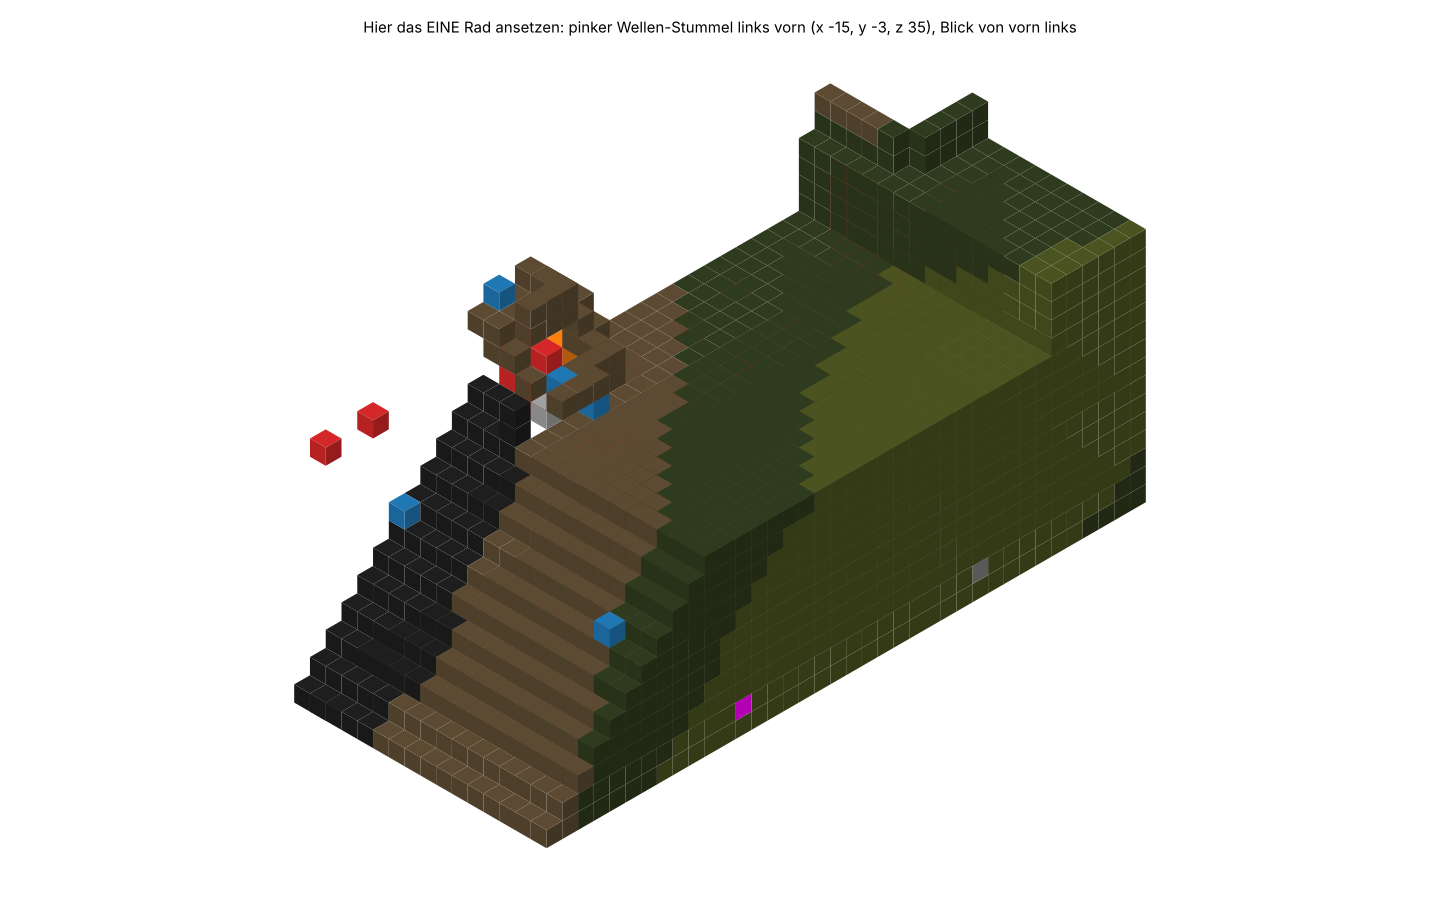
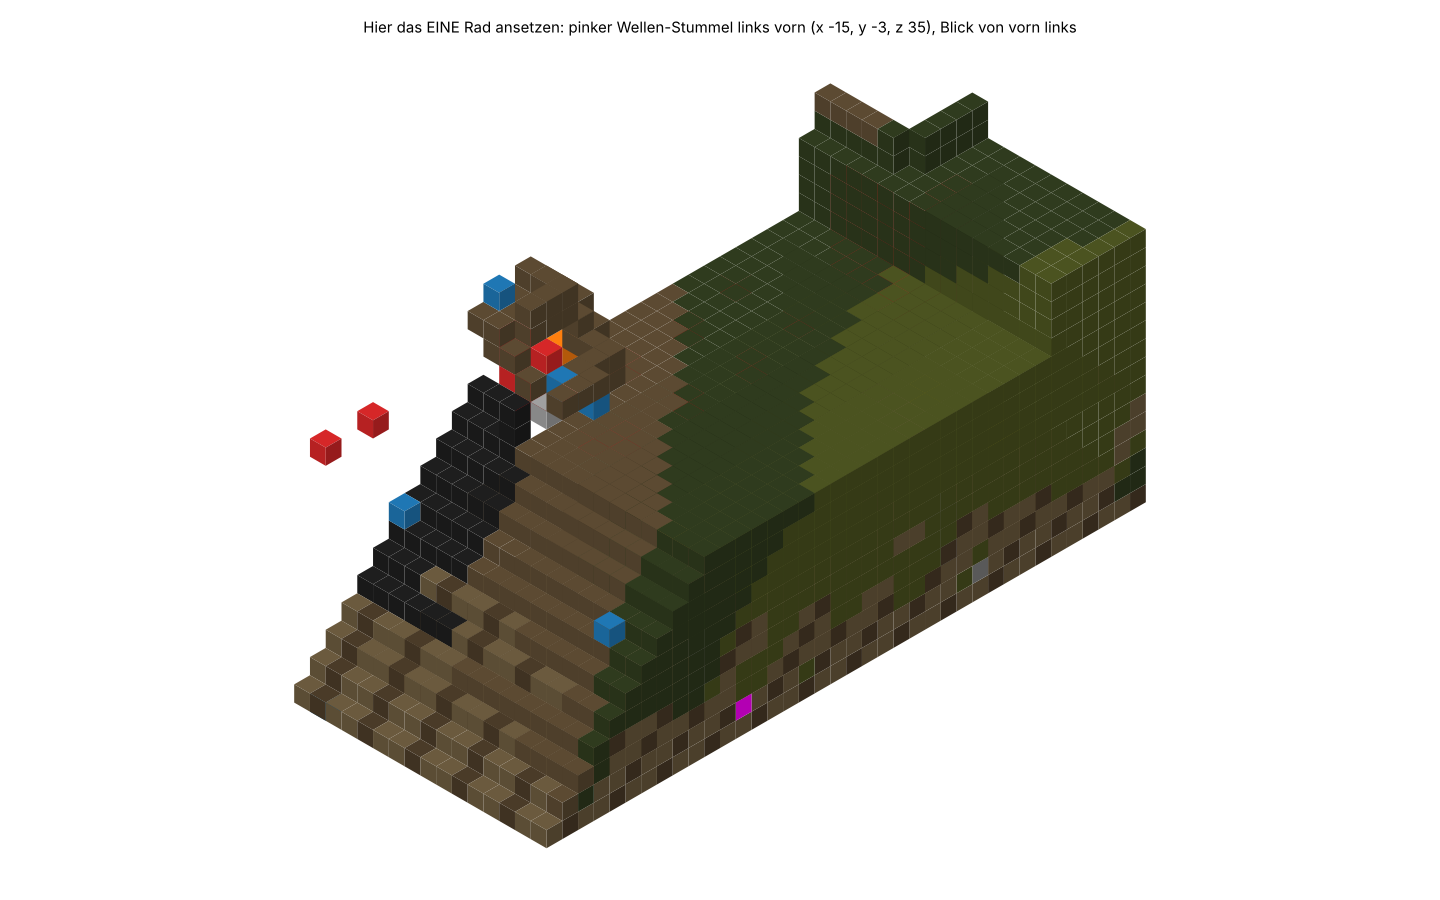
Landkreuzer: Bilder nicht mehr gespiegelt, Schlamm-Spritzer, Hinweise Licht/Schwerpunkt
Die Ansichten von rechts waren spiegelverkehrt (Linkssystem des Spiels). ansicht.py ohne
Argumente zeichnet jetzt alle Bilder neu. Unten am Rumpf fleckiger Schlamm.

Claude-Session: https://claude.ai/code/session_0152gkBg9gGuHk7BmVYYkeuS

Changed region(s): [[0.1875, 0.6222, 0.3438, 0.84], [0.4062, 0.7778, 0.5, 0.9333], [0.75, 0.56, 0.7812, 0.5911]]

diff --git a/landkreuzer/tools/ansicht.py b/landkreuzer/tools/ansicht.py
@@ -1,7 +1,8 @@
 """Zeichnet ein Stormworks-Fahrzeug von oben, von der Seite und von vorn (PNG), zum Ansehen ohne Spiel.
 
-Aufruf (mit matplotlib): python landkreuzer/tools/ansicht.py [Fahrzeug.xml] [Ausgabe.png]
-Standard: landkreuzer/fahrzeug/KI Landkreuzer.xml -> landkreuzer/bilder/ansicht.png
+Aufruf (mit matplotlib): python landkreuzer/tools/ansicht.py              alle Bilder in landkreuzer/bilder neu
+                         python landkreuzer/tools/ansicht.py Fahrzeug.xml [Ausgabe.png]   nur die drei Ansichten
+Blickrichtungen wie im Spiel (nicht gespiegelt): die Kennung KL-1 ist auf beiden Seiten von aussen lesbar.
 Jedes Teil ist ein Kaestchen an seiner Position (0,25 m); Bloecke in ihrer Farbe, Bauteile nach Art eingefaerbt.
 """
 import os
@@ -41,18 +42,22 @@ def zeichnen(pfad, aus):
     F = fz.Fahrzeug.lesen(pfad)
     teile = [t for _, ts in F.koerper for t in ts]
     fig, ax = plt.subplots(3, 1, figsize=(14, 15), gridspec_kw={"height_ratios": [1.1, 1, 0.9]})
-    for a, (i, j, titel) in zip(ax, ((2, 0, "von oben (vorn rechts)"), (2, 1, "von links (vorn rechts)"),
-                                     (0, 1, "von vorn"))):
+    # Blickrichtungen wie im Spiel (x rechts, y oben, z vorn; Linkssystem): von oben mit Bug rechts liegt die linke
+    # Seite oben, von rechts mit Bug rechts, von vorn liegt die rechte Seite links im Bild
+    sichten = (("von oben (Bug rechts, linke Seite oben)", lambda v: (v[2], -v[0]), lambda t: t.vp[1], "z (vorn)", "-x (links)"),
+               ("von rechts (Bug rechts)", lambda v: (v[2], v[1]), lambda t: t.vp[0], "z (vorn)", "y (oben)"),
+               ("von vorn (rechte Seite links im Bild)", lambda v: (-v[0], v[1]), lambda t: t.vp[2], "-x (links)",
+                "y (oben)"))
+    for a, (titel, proj, tiefe, xl, yl) in zip(ax, sichten):
+        a.set_xlabel(xl)
+        a.set_ylabel(yl)
         # nach Tiefe sortieren, damit das Naeherliegende oben liegt
-        k = ({0: 1, 1: 0, 2: 1}[i] if titel != "von vorn" else 2)
-        tiefe = (lambda t: t.vp[1]) if titel.startswith("von oben") else (
-            (lambda t: -t.vp[0]) if titel.startswith("von links") else (lambda t: t.vp[2]))
         ts = sorted(teile, key=tiefe)
-        a.scatter([t.vp[i] for t in ts], [t.vp[j] for t in ts], c=[farbe(t) for t in ts], marker="s", s=16, linewidths=0)
+        pts = [proj(t.vp) for t in ts]
+        a.scatter([q[0] for q in pts], [q[1] for q in pts], c=[farbe(t) for t in ts], marker="s", s=16, linewidths=0)
         a.set_aspect("equal")
         a.set_title(titel)
         a.grid(alpha=.2)
-        _ = k
     ax[0].legend(handles=[Patch(color=f, label=l) for _, f, l in ARTEN], loc="upper left", fontsize=8, ncol=4)
     fig.suptitle("%s - %d Teile, %d Koerper, %d Kabel (1 Kaestchen = 0,25 m)" % (
         os.path.basename(pfad), len(teile), len(F.koerper), len(F.kabel)))
@@ -60,12 +65,6 @@ def zeichnen(pfad, aus):
     os.makedirs(os.path.dirname(aus), exist_ok=True)
     fig.savefig(aus, dpi=80)
     print("gezeichnet:", aus)
-
-
-if __name__ == "__main__":
-    pf = sys.argv[1] if len(sys.argv) > 1 else os.path.join(LK, "fahrzeug", "KI Landkreuzer.xml")
-    au = sys.argv[2] if len(sys.argv) > 2 else os.path.join(LK, "bilder", "ansicht.png")
-    zeichnen(pf, au)
 
 
 def schraeg(pfad, aus, rechts=True, markiert=(), titel=None, ausschnitt=None):
@@ -82,8 +81,9 @@ def schraeg(pfad, aus, rechts=True, markiert=(), titel=None, ausschnitt=None):
     cx, cz = 0.866, 0.5
 
     def p(x, y, z):
-        # Blick aus Richtung (+x, +y, +z): naeher = groesseres x+z -> weiter unten
-        return ((sx * x - z) * cx, y - (sx * x + z) * cz)
+        # Blick aus Richtung (sx, +1, +1), wie eine Kamera im Spiel (Linkssystem: x rechts, y oben, z vorn).
+        # Von vorn rechts liegt der Bug rechts im Bild, von vorn links links. Naeher = groesseres sx*x+z -> weiter unten
+        return ((sx * z - x) * cx, y - (sx * x + z) * cz)
     belegt = {t.vp for t in teile}
     polys, farben = [], []
     if ausschnitt:
@@ -118,3 +118,30 @@ def schraeg(pfad, aus, rechts=True, markiert=(), titel=None, ausschnitt=None):
     fig.tight_layout()
     fig.savefig(aus, dpi=90)
     print("gezeichnet:", aus)
+
+
+def alle_bilder():
+    """Alle Bilder in landkreuzer/bilder neu zeichnen (nach bau_landkreuzer.py und bau_landkreuzer.py --lenkung)."""
+    sys.path.insert(0, HIER)
+    import bau_landkreuzer as B
+    fzg = os.path.join(LK, "fahrzeug")
+    bi = os.path.join(LK, "bilder")
+    einfach, lenk = os.path.join(fzg, "KI Landkreuzer.xml"), os.path.join(fzg, "KI Landkreuzer Lenkung.xml")
+    zeichnen(einfach, os.path.join(bi, "ansicht.png"))
+    schraeg(einfach, os.path.join(bi, "schraeg.png"))
+    schraeg(einfach, os.path.join(bi, "schraeg_links.png"), rechts=False)
+    if os.path.exists(lenk):
+        schraeg(lenk, os.path.join(bi, "schraeg_lenkung.png"),
+                titel="KI Landkreuzer Lenkung - vordere und hintere Achsen auf Gelenken (Raeder setzt Andre)")
+    schraeg(einfach, os.path.join(bi, "rad_stummel.png"), rechts=False, markiert={(-B.X1, B.ACHSE_Y, B.RAD_Z[0])},
+            ausschnitt=((-16, -5, 10), (0, 12, 48)),
+            titel="Hier das EINE Rad ansetzen: pinker Wellen-Stummel links vorn (x -15, y -3, z 35), Blick von vorn links")
+
+
+if __name__ == "__main__":
+    if len(sys.argv) > 1:
+        pf = sys.argv[1]
+        au = sys.argv[2] if len(sys.argv) > 2 else os.path.join(LK, "bilder", "ansicht.png")
+        zeichnen(pf, au)
+    else:
+        alle_bilder()

diff --git a/landkreuzer/tools/bau_landkreuzer.py b/landkreuzer/tools/bau_landkreuzer.py
@@ -478,6 +478,12 @@ class Bau:
         wellen = [(0.11, 0.07, 0.05, 1.3), (0.05, 0.13, 0.09, 4.1), (0.08, 0.04, 0.12, 2.2), (0.15, 0.10, 0.03, 5.7)]
 
         def muster(p):
+            # Schlamm: unten am Rumpf (Spritzer der Raeder), nach oben immer seltener, fleckig
+            h = p[1] - BODEN
+            if h < 6:
+                k = math.sin(0.9 * p[2] + 0.3 * p[0]) * math.sin(0.37 * p[2] + 1.1 * p[1] + 0.5) * 0.5 + 0.5
+                if k > h / 6:
+                    return "6B5A3E" if (p[0] + p[2] + p[1]) % 3 else "4A3B28"
             v = sum(math.sin(a * p[0] + b * p[1] + c * p[2] + ph) for a, b, c, ph in wellen)
             # Summe von 4 Sinus ~ Normalverteilung (Streuung 1,41): 40 % Oliv, 30 % Dunkelgruen, 20 % Braun, 10 % Schwarz
             return farben[0 if v < -0.36 else 1 if v < 0.74 else 2 if v < 1.81 else 3]

diff --git a/landkreuzer/LANDKREUZER.md b/landkreuzer/LANDKREUZER.md
@@ -16,14 +16,14 @@ fahren – quasi ein KI-Panzer“.
 | | |
 |---|---|
 | Größe | Rumpf 28 m lang (mit Bug-Schräge), mit AC-Rohr 29 m; 7,75 m breit + Räder ≈ 9–10 m; Mast ≈ 9 m über dem Boden des Rumpfs |
-| Teile | ca. 17 000, 25 Körper, ca. 390 Kabel, 9 Chips |
+| Teile | ca. 17 000 (ein Drittel der Figet Marena mit ≈ 56 000), 25 Körper, ca. 410 Kabel, 9 Chips |
 | Waffen | vorn **Heavy-Autocannon-Turm** (AP), dahinter erhöht **Battle-Cannon-Turm mit 2 Rohren** (HE), hinten **2 Flak-Türme** mit je 2 Heavy Autocannons (Splitter, Zeitzünder) |
 | Schutz | **Auto-Chaff**: 8 Werfer-Ketten mit je 15 Werfern (wie auf dem Schiff), Radarwarner auf dem Brückendach |
 | Ortung | **6 Phalanx-Radare** am Mast (wie auf der Figet Marena), dazu ein Radar auf jedem Turm, Dachkamera |
 | Brücke | die Brücke der Figet Marena: Steuersitz, Hauptmonitor 9×5 (Radar, Kamera, Zielliste), Monitor 3×3 = **Karte der KI**, Monitor 2×3 = **KI-Status**, Instrumentenblock; Aufstieg über Leitern hinten und hinter der Brücke |
 | Antrieb | 14 Elektromotoren (Medium), je einer pro Rad, 24 große Batterien im Fahrwerksraum; gelenkt wird wie bei einem Kettenfahrzeug (links und rechts verschieden schnell) |
 | KI | fährt Wegpunkte ab oder patrouilliert im Revier, weicht Hindernissen aus (7 Laser), meidet Wasser und Abhänge, befreit sich, wenn sie feststeckt, bleibt im Gefecht stehen, fährt auf Wunsch nach Hause |
-| Aussehen | Tarnanstrich (Wald: Oliv, Dunkelgrün, Braun, Schwarz) auf allen Blöcken, 45°-Bug-Schräge, Kennung „KL-1“ weiß an beiden Seiten |
+| Aussehen | Tarnanstrich (Wald: Oliv, Dunkelgrün, Braun, Schwarz) auf allen Blöcken, unten Schlamm-Spritzer, 45°-Bug-Schräge, Kennung „KL-1“ weiß an beiden Seiten |
 
 ### Woher die Teile kommen
 Alles, was im Schiff schon funktioniert, ist **genau kopiert**: gleiche Teile, gleiche Abstände, gleiche Kabel,
@@ -177,6 +177,10 @@ In dieser Reihenfolge. Anfangen jeweils mit **KI Pause an** und **Waffen sperren
   bei wenig Batterie fährt sie langsamer.
 - **Größe:** Der Panzer ist sehr groß (≈ 28 × 10 m). Eine kleinere Werkbank reicht nicht.
 - **Räder:** Welches Rad am besten passt, musst du ausprobieren (siehe oben).
+- **Licht:** Er hat keine Scheinwerfer, weil es im Schiff keine Licht-Teile gibt (siehe „Woher die Teile kommen“).
+  Die KI fährt nachts trotzdem, denn die Laser sehen im Dunkeln. Willst du ihn nachts sehen: im Editor 2–4
+  Scheinwerfer vorn an die Bug-Schräge setzen, Strom von einer Batterie, an einen Knopf in der Brücke. Laut Forum
+  machen viele Lichter große Fahrzeuge langsamer, also lieber wenige.
 
 ---
 
@@ -200,6 +204,8 @@ In dieser Reihenfolge. Anfangen jeweils mit **KI Pause an** und **Waffen sperren
 - Höhen: Boden des Fahrwerksraums y −4, Hauptboden y 1, Deck vorn y 6, Mitte y 10, hinten y 9.
 - Bug-Schräge z 37 … 47. Brücken-Boden y 15.
 - Wellen-Stummel bei x ±15, y −3, z 35 / 20 / 5 / −10 / −25 / −40 / −55 (Mitte = geschätzter Schwerpunkt).
+- **Schwerpunkt** (geschätzt, jedes Teil gleich schwer): y ≈ 5, also gut 2,5 m über dem Boden bei ≈ 8,5 m Spur.
+  Er kippt erst bei sehr steilen Seitenhängen (über 45°); Ballast ist nicht nötig. Die KI meidet steile Hänge ohnehin.
 - **Chips** liegen auf dem Hauptboden in der Mitte (y 2, z −29 … −17), der Physik-Sensor bei (0, 2, −12).
   Die Batterien sitzen im Fahrwerksraum.
 
